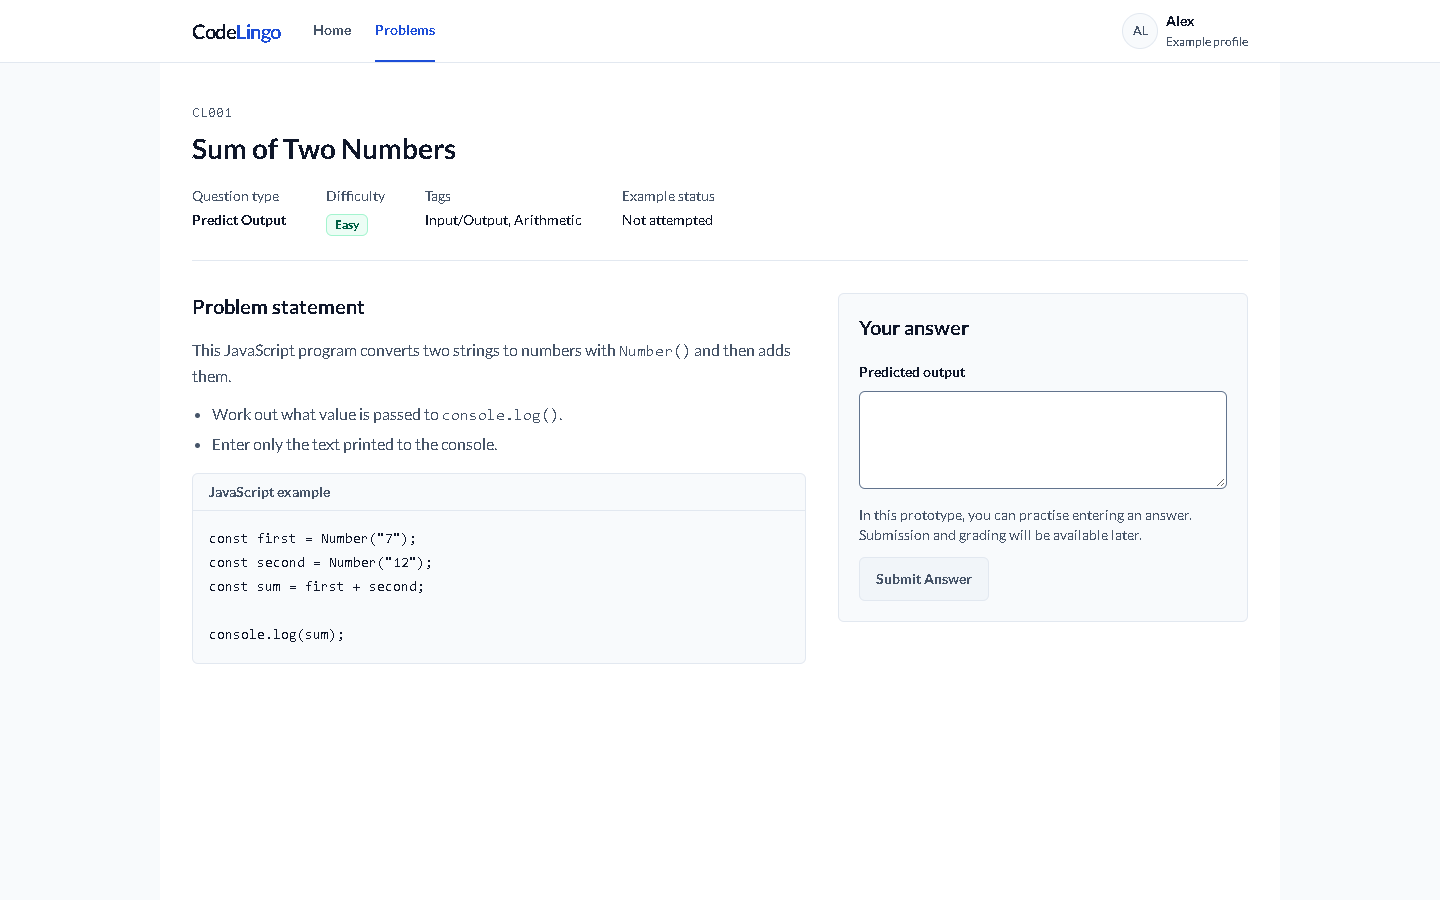
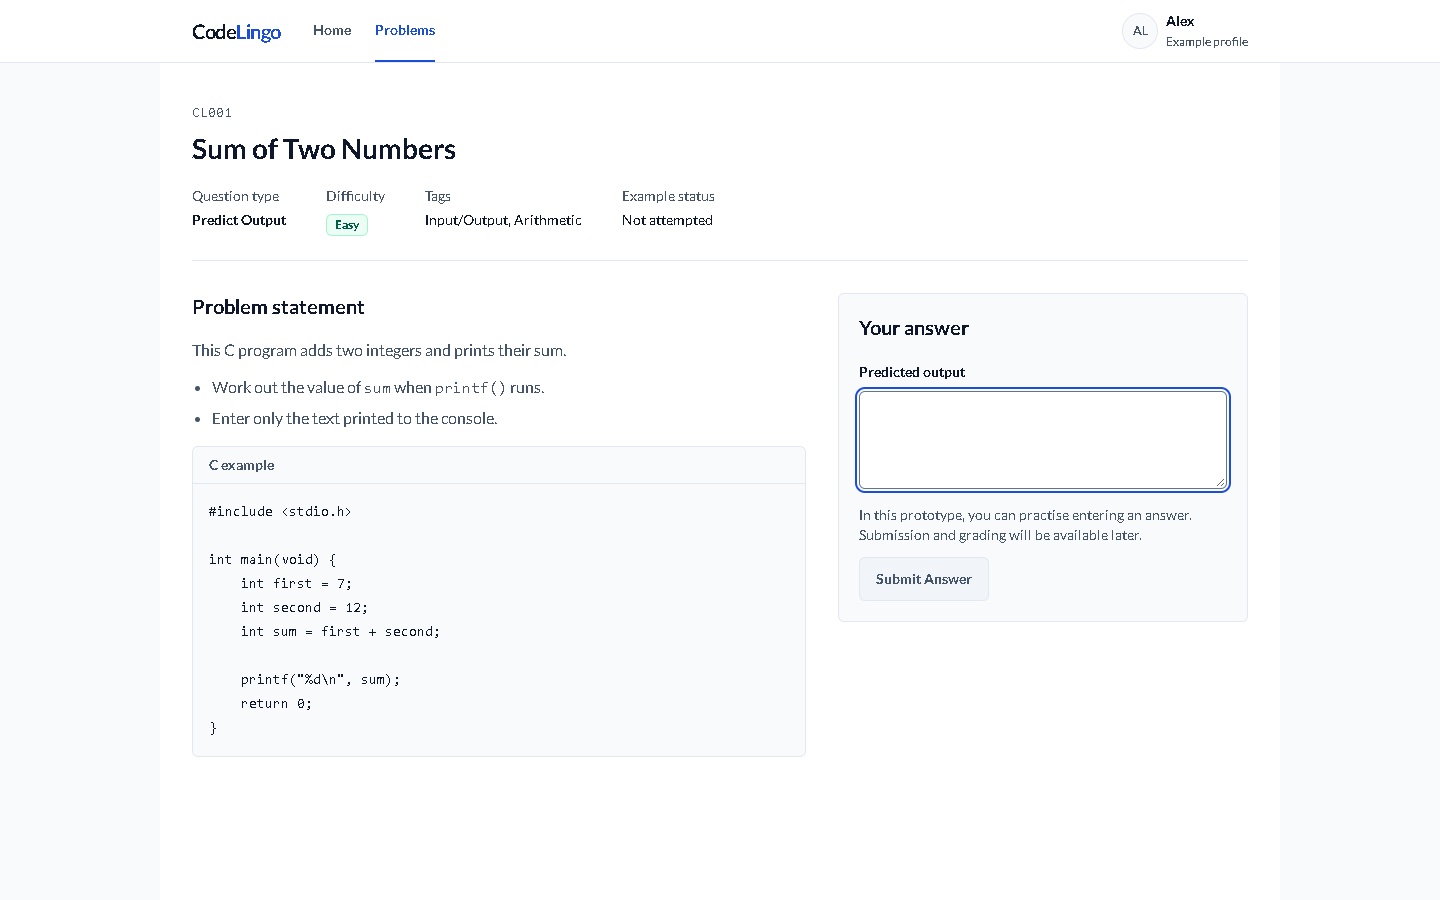
fix(problems): use C examples and handle instant navigation

diff --git a/src/app/problems/[slug]/problems.tsx b/src/app/problems/[slug]/problems.tsx
@@ -25,20 +25,24 @@ export const problems: readonly Problem[] = [
     statement: (
       <>
         <p>
-          This JavaScript program converts two strings to numbers with{" "}
-          <code>Number()</code> and then adds them.
+          This C program adds two integers and prints their sum.
         </p>
         <ul className="list-disc space-y-1 pl-5">
-          <li>Work out what value is passed to <code>console.log()</code>.</li>
+          <li>Work out the value of <code>sum</code> when <code>printf()</code> runs.</li>
           <li>Enter only the text printed to the console.</li>
         </ul>
       </>
     ),
-    code: `const first = Number("7");
-const second = Number("12");
-const sum = first + second;
+    code: `#include <stdio.h>
 
-console.log(sum);`,
+int main(void) {
+    int first = 7;
+    int second = 12;
+    int sum = first + second;
+
+    printf("%d\\n", sum);
+    return 0;
+}`,
   },
   {
     id: "CL002",
@@ -50,21 +54,27 @@ console.log(sum);`,
     statement: (
       <>
         <p>
-          This JavaScript program should print the last item in <code>colors</code>,
-          but it reads past the end of the array.
+          This C program should print the last item in <code>colors</code>,
+          but its index points past the end of the array. Reading outside the
+          array causes undefined behavior.
         </p>
         <p>
-          Choose the expression that should replace <code>colors.length</code> in
-          the assignment to <code>lastIndex</code>. The fix should also work if
+          Choose the expression that should replace <code>count</code> in the
+          assignment to <code>lastIndex</code>. The fix should also work if
           more colors are added.
         </p>
       </>
     ),
-    code: `const colors = ["red", "green", "blue"];
-const lastIndex = colors.length;
-const lastColor = colors[lastIndex];
+    code: `#include <stdio.h>
 
-console.log(lastColor);`,
-    options: ["colors.length + 1", "colors.length - 1", "colors.length", "0"],
+int main(void) {
+    const char *colors[] = {"red", "green", "blue"};
+    int count = sizeof(colors) / sizeof(colors[0]);
+    int lastIndex = count;
+
+    printf("%s\\n", colors[lastIndex]);
+    return 0;
+}`,
+    options: ["count + 1", "count - 1", "count", "0"],
   },
 ];

diff --git a/src/app/problems/[slug]/page.tsx b/src/app/problems/[slug]/page.tsx
@@ -63,7 +63,7 @@ export default async function ProblemPage({ params }: ProblemPageProps) {
               id="example-language"
               className="border-b border-border px-4 py-2 text-sm font-bold text-muted"
             >
-              JavaScript example
+              C example
             </figcaption>
             <div
               role="region"

diff --git a/src/app/problems/[slug]/loading.tsx b/src/app/problems/[slug]/loading.tsx
@@ -1,0 +1,3 @@
+export default function ProblemLoading() {
+  return <p role="status" className="text-muted">Loading problem…</p>;
+}
